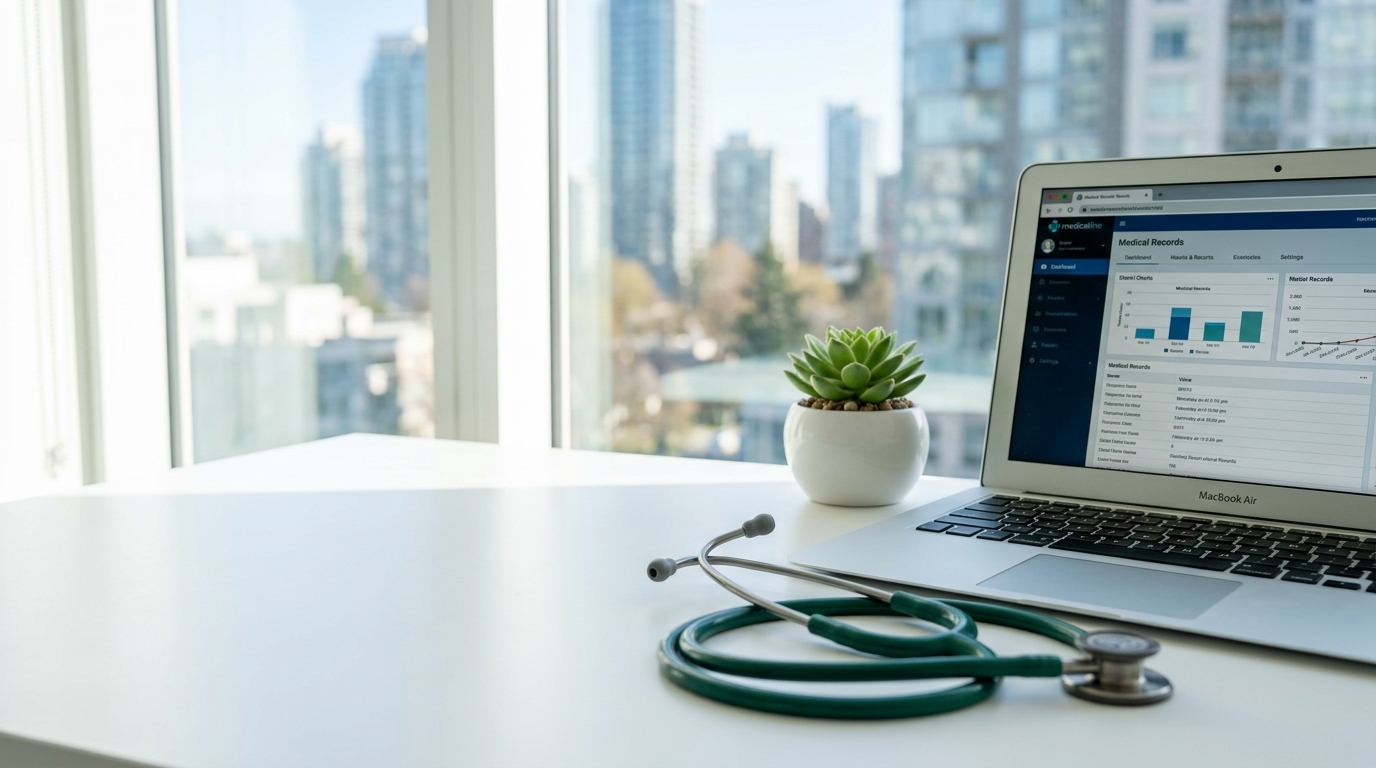
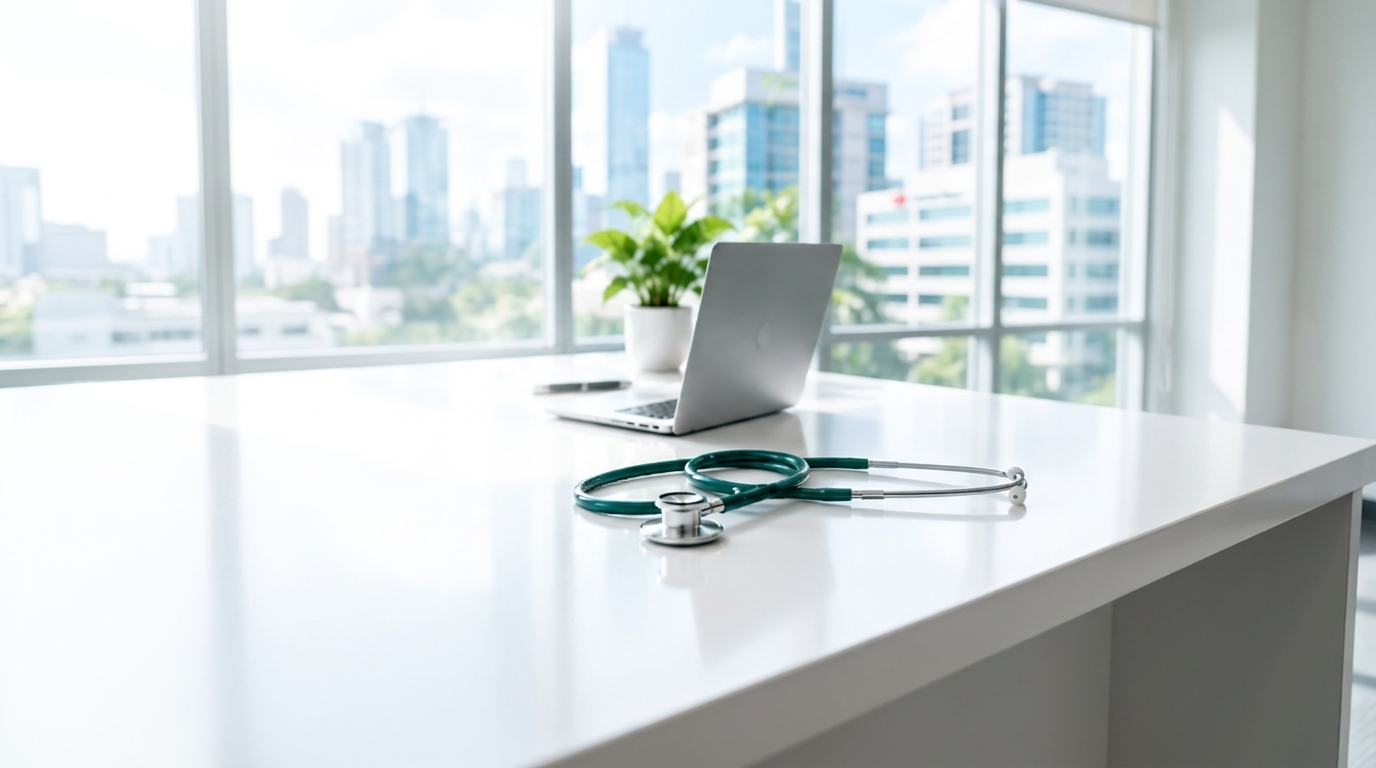
feat: add login page and authentication background assets

diff --git a/src/app/(auth)/login/page.tsx b/src/app/(auth)/login/page.tsx
@@ -40,7 +40,7 @@ export default function LoginPage() {
     setSuccess(null);
 
     if (!identifier.trim()) {
-      setError("Please enter your email address.");
+      setError("Please enter your Email Address.");
       return;
     }
     if (!password) {
@@ -93,31 +93,30 @@ export default function LoginPage() {
   };
 
   return (
-    <div className="min-h-screen w-full flex flex-col lg:flex-row bg-[#f3f6f4] font-sans-clean selection:bg-[#007a55] selection:text-white overflow-x-hidden">
+    <div className="h-screen w-full flex flex-col lg:flex-row bg-[#f6f9f8] font-sans-clean selection:bg-[#007a55] selection:text-white overflow-hidden">
       {/* ========================================================= */}
-      {/* LEFT COLUMN: HERO, HEADLINE, FEATURES & WAVE BANNER       */}
+      {/* LEFT COLUMN: HERO, VALUE PROPOSITIONS & ARTISTIC WAVE     */}
       {/* ========================================================= */}
-      <div className="relative w-full lg:w-[57%] xl:w-[58%] min-h-[640px] lg:h-screen lg:max-h-screen flex flex-col justify-between overflow-hidden bg-white select-none">
-        {/* Background Image: Crisp Clinical Consultation Desk */}
+      <div className="relative w-full lg:w-[58%] xl:w-[59%] h-full flex flex-col justify-between overflow-hidden bg-white select-none">
+        {/* Background Image: Clean Hospital Consultation Desk */}
         <div className="absolute inset-0 z-0 pointer-events-none">
           <Image
-            src="/images/auth-hero-bg.jpg"
+            src="/images/auth-hero-clinic-v2.jpg"
             alt="LifeSpring Hospital Consultation Desk"
             fill
             priority
-            quality={95}
-            className="object-cover object-right-bottom scale-100"
+            quality={98}
+            className="object-cover object-[75%_center]"
           />
-          {/* Subtle soft white gradient wash for editorial contrast */}
-          <div className="absolute inset-0 bg-gradient-to-r from-white/95 via-white/80 to-white/20 lg:to-transparent" />
-          <div className="absolute inset-0 bg-gradient-to-t from-white/40 via-transparent to-white/20" />
+          {/* Soft white gradient wash for editorial text readability */}
+          <div className="absolute inset-0 bg-gradient-to-r from-white/95 via-white/70 to-transparent" />
+          <div className="absolute inset-0 bg-gradient-to-t from-white/30 via-transparent to-white/10" />
         </div>
 
-        {/* Content Container */}
-        <div className="relative z-10 flex flex-col justify-between h-full p-6 sm:p-10 lg:p-12 xl:p-14">
-          {/* Top: LifeSpring Brand Logo */}
+        {/* Top: LifeSpring Brand Logo */}
+        <div className="relative z-10 p-6 sm:p-8 lg:p-10 xl:p-12 pb-0">
           <div className="flex items-center gap-3">
-            <div className="relative w-11 h-11 shrink-0">
+            <div className="relative w-10 h-10 sm:w-11 sm:h-11 shrink-0">
               <Image
                 src="/images/lifespring-icon.png"
                 alt="LifeSpring Logo"
@@ -135,95 +134,96 @@ export default function LoginPage() {
               </span>
             </div>
           </div>
-
-          {/* Middle: Editorial Headline & 4 Feature Highlights */}
-          <div className="my-auto py-4 sm:py-6 max-w-xl xl:max-w-2xl">
-            <h1 className="font-serif-display text-3xl sm:text-4xl lg:text-[44px] xl:text-[48px] font-bold text-[#083b28] leading-[1.12] tracking-tight">
-              Better Healthcare<br />
-              Management<br />
-              for a Healthier Tomorrow
-            </h1>
-
-            <p className="text-slate-600 text-[13.5px] sm:text-[15px] leading-relaxed mt-3.5 sm:mt-4 max-w-lg font-normal">
-              Streamline your hospital operations, manage patients, and deliver quality care — all in one place.
-            </p>
-
-            {/* 4 Feature Highlights in a single horizontal row on desktop */}
-            <div className="grid grid-cols-2 sm:grid-cols-4 gap-3.5 sm:gap-4 mt-6 sm:mt-8 pt-1">
-              {/* Card 1: Patient Management */}
-              <div className="flex flex-col items-start">
-                <div className="w-10 h-10 sm:w-11 sm:h-11 rounded-2xl bg-[#e3f5ec] text-[#007a55] flex items-center justify-center shadow-xs">
-                  <Users className="w-5 h-5 stroke-[2.2]" />
-                </div>
-                <h2 className="font-bold text-[13px] sm:text-[13.5px] text-slate-800 mt-2.5 leading-tight">
-                  Patient Management
-                </h2>
-                <p className="text-slate-500 text-[11px] sm:text-[11.5px] leading-snug mt-0.5">
-                  Complete patient lifecycle
-                </p>
-              </div>
-
-              {/* Card 2: Appointments */}
-              <div className="flex flex-col items-start">
-                <div className="w-10 h-10 sm:w-11 sm:h-11 rounded-2xl bg-[#e3f5ec] text-[#007a55] flex items-center justify-center shadow-xs">
-                  <Calendar className="w-5 h-5 stroke-[2.2]" />
-                </div>
-                <h2 className="font-bold text-[13px] sm:text-[13.5px] text-slate-800 mt-2.5 leading-tight">
-                  Appointments
-                </h2>
-                <p className="text-slate-500 text-[11px] sm:text-[11.5px] leading-snug mt-0.5">
-                  Easy scheduling & tracking
-                </p>
-              </div>
-
-              {/* Card 3: Clinical Records */}
-              <div className="flex flex-col items-start">
-                <div className="w-10 h-10 sm:w-11 sm:h-11 rounded-2xl bg-[#e3f5ec] text-[#007a55] flex items-center justify-center shadow-xs">
-                  <FileText className="w-5 h-5 stroke-[2.2]" />
-                </div>
-                <h2 className="font-bold text-[13px] sm:text-[13.5px] text-slate-800 mt-2.5 leading-tight">
-                  Clinical Records
-                </h2>
-                <p className="text-slate-500 text-[11px] sm:text-[11.5px] leading-snug mt-0.5">
-                  Secure & organized medical history
-                </p>
-              </div>
-
-              {/* Card 4: Reports & Analytics */}
-              <div className="flex flex-col items-start">
-                <div className="w-10 h-10 sm:w-11 sm:h-11 rounded-2xl bg-[#e3f5ec] text-[#007a55] flex items-center justify-center shadow-xs">
-                  <BarChart3 className="w-5 h-5 stroke-[2.2]" />
-                </div>
-                <h2 className="font-bold text-[13px] sm:text-[13.5px] text-slate-800 mt-2.5 leading-tight">
-                  Reports & Analytics
-                </h2>
-                <p className="text-slate-500 text-[11px] sm:text-[11.5px] leading-snug mt-0.5">
-                  Data-driven decisions
-                </p>
-              </div>
-            </div>
-          </div>
-
-          {/* Bottom buffer */}
-          <div className="h-16 sm:h-20" />
         </div>
 
+        {/* Middle: Editorial Headline & 4 Feature Badges */}
+        <div className="relative z-10 px-6 sm:px-8 lg:px-10 xl:px-12 my-auto max-w-xl xl:max-w-2xl">
+          <h1 className="font-serif-display text-3xl sm:text-4xl lg:text-[42px] xl:text-[46px] font-bold text-[#0c3c2a] leading-[1.12] tracking-tight">
+            Better Healthcare<br />
+            Management<br />
+            for a Healthier Tomorrow
+          </h1>
+
+          <p className="text-slate-600 text-[13.5px] sm:text-[14.5px] leading-relaxed mt-3.5 max-w-lg font-normal">
+            Streamline your hospital operations, manage patients,<br className="hidden sm:block" />
+            and deliver quality care — all in one place.
+          </p>
+
+          {/* 4 Feature Highlights in a horizontal row */}
+          <div className="grid grid-cols-2 sm:grid-cols-4 gap-3 sm:gap-4 mt-6 pt-1 max-w-lg">
+            {/* Card 1: Patient Management */}
+            <div className="flex flex-col items-start">
+              <div className="w-10 h-10 rounded-xl bg-[#eef8f2] text-[#007a55] flex items-center justify-center">
+                <Users className="w-4.5 h-4.5 stroke-[2]" />
+              </div>
+              <h2 className="font-bold text-[13px] text-[#113a2b] mt-2.5 leading-tight">
+                Patient<br />Management
+              </h2>
+              <p className="text-slate-500 text-[11px] leading-tight mt-1">
+                Complete patient lifecycle
+              </p>
+            </div>
+
+            {/* Card 2: Appointments */}
+            <div className="flex flex-col items-start">
+              <div className="w-10 h-10 rounded-xl bg-[#eef8f2] text-[#007a55] flex items-center justify-center">
+                <Calendar className="w-4.5 h-4.5 stroke-[2]" />
+              </div>
+              <h2 className="font-bold text-[13px] text-[#113a2b] mt-2.5 leading-tight">
+                Appointments
+              </h2>
+              <p className="text-slate-500 text-[11px] leading-tight mt-1">
+                Easy scheduling &amp; tracking
+              </p>
+            </div>
+
+            {/* Card 3: Clinical Records */}
+            <div className="flex flex-col items-start">
+              <div className="w-10 h-10 rounded-xl bg-[#eef8f2] text-[#007a55] flex items-center justify-center">
+                <FileText className="w-4.5 h-4.5 stroke-[2]" />
+              </div>
+              <h2 className="font-bold text-[13px] text-[#113a2b] mt-2.5 leading-tight">
+                Clinical Records
+              </h2>
+              <p className="text-slate-500 text-[11px] leading-tight mt-1">
+                Secure &amp; organized medical history
+              </p>
+            </div>
+
+            {/* Card 4: Reports & Analytics */}
+            <div className="flex flex-col items-start">
+              <div className="w-10 h-10 rounded-xl bg-[#eef8f2] text-[#007a55] flex items-center justify-center">
+                <BarChart3 className="w-4.5 h-4.5 stroke-[2]" />
+              </div>
+              <h2 className="font-bold text-[13px] text-[#113a2b] mt-2.5 leading-tight">
+                Reports &amp; Analytics
+              </h2>
+              <p className="text-slate-500 text-[11px] leading-tight mt-1">
+                Data-driven decisions
+              </p>
+            </div>
+          </div>
+        </div>
+
+        {/* Bottom space buffer */}
+        <div className="h-28 pointer-events-none" />
+
         {/* ========================================================= */}
-        {/* BOTTOM LEFT WAVE GRAPHIC: EXACT ORGANIC CURVES & TEXT     */}
+        {/* BOTTOM LEFT WAVE GRAPHIC WITH SCRIPT TYPOGRAPHY           */}
         {/* ========================================================= */}
-        <div className="absolute bottom-0 left-0 w-[105%] sm:w-[90%] lg:w-[85%] xl:w-[78%] pointer-events-none select-none z-20">
+        <div className="absolute bottom-0 left-0 w-full pointer-events-none select-none z-20">
           <svg
-            viewBox="0 0 760 210"
+            viewBox="0 0 1000 240"
             fill="none"
             xmlns="http://www.w3.org/2000/svg"
-            className="w-full h-auto drop-shadow-sm"
+            className="w-full h-auto block"
             preserveAspectRatio="none"
           >
             <defs>
               <linearGradient id="waveMint" x1="0%" y1="0%" x2="100%" y2="0%">
                 <stop offset="0%" stopColor="#10b981" stopOpacity="0.85" />
                 <stop offset="45%" stopColor="#34d399" stopOpacity="0.75" />
-                <stop offset="100%" stopColor="#059669" stopOpacity="0.1" />
+                <stop offset="100%" stopColor="#059669" stopOpacity="0.15" />
               </linearGradient>
               <linearGradient id="waveDeepForest" x1="0%" y1="0%" x2="100%" y2="100%">
                 <stop offset="0%" stopColor="#05442e" />
@@ -232,21 +232,21 @@ export default function LoginPage() {
               </linearGradient>
             </defs>
 
-            {/* Mint Wave Layer */}
+            {/* Mint Wave Layer with dipping curve */}
             <path
-              d="M0 95 C 160 70 340 145 760 90 L 760 210 L 0 210 Z"
+              d="M 0 105 C 320 85 460 215 780 160 C 890 140 960 115 1000 95 L 1000 240 L 0 240 Z"
               fill="url(#waveMint)"
             />
 
             {/* Deep Green Wave Layer */}
             <path
-              d="M0 120 C 190 95 390 170 760 125 L 760 210 L 0 210 Z"
+              d="M 0 135 C 340 115 480 235 780 185 C 890 165 960 145 1000 125 L 1000 240 L 0 240 Z"
               fill="url(#waveDeepForest)"
             />
           </svg>
 
           {/* Script Text over the Wave: "Together for Better Health" */}
-          <div className="absolute bottom-4 sm:bottom-6 left-6 sm:left-10 -rotate-[8deg] flex flex-col items-start drop-shadow">
+          <div className="absolute bottom-4 sm:bottom-6 left-6 sm:left-10 -rotate-[9deg] flex flex-col items-start drop-shadow">
             <span className="font-handwriting text-white text-2xl sm:text-[27px] font-semibold leading-tight tracking-wide">
               Together for
             </span>
@@ -272,11 +272,11 @@ export default function LoginPage() {
       </div>
 
       {/* ========================================================= */}
-      {/* RIGHT COLUMN: AUTH CARD, SSO, SECURITY BADGE & FOOTER    */}
+      {/* RIGHT COLUMN: FLOATING AUTH CARD & SYSTEM METADATA        */}
       {/* ========================================================= */}
-      <div className="w-full lg:w-[43%] xl:w-[42%] min-h-screen bg-[#f3f6f4] flex flex-col justify-between items-center py-5 sm:py-6 px-4 sm:px-6 lg:px-8 relative z-20">
+      <div className="w-full lg:w-[42%] xl:w-[41%] h-full bg-[#f6f9f8] flex flex-col justify-between items-center py-5 sm:py-6 px-4 sm:px-6 relative z-20 overflow-y-auto">
         {/* Top Header: Language Switcher Dropdown */}
-        <div className="w-full flex justify-end max-w-[440px] relative">
+        <div className="w-full flex justify-end max-w-[430px] relative">
           <div className="relative">
             <button
               type="button"
@@ -313,8 +313,8 @@ export default function LoginPage() {
         </div>
 
         {/* Center: Main Elevated Sign-In Card */}
-        <div className="w-full max-w-[440px] my-auto py-3">
-          <div className="bg-white rounded-[26px] shadow-[0_15px_45px_rgba(0,0,0,0.05),0_1px_3px_rgba(0,0,0,0.02)] border border-slate-100/90 p-6 sm:p-8 transition-all">
+        <div className="w-full max-w-[430px] my-auto py-2">
+          <div className="bg-white rounded-[26px] shadow-[0_20px_50px_rgba(0,0,0,0.06),0_1px_3px_rgba(0,0,0,0.02)] p-7 sm:p-8 transition-all">
             {/* Center Logo in Card */}
             <div className="flex flex-col items-center text-center">
               <div className="relative w-11 h-11 mb-1.5">
@@ -339,10 +339,10 @@ export default function LoginPage() {
               <span className="text-[10.5px] font-bold uppercase tracking-[0.18em] text-[#059669]">
                 WELCOME BACK
               </span>
-              <h2 className="font-serif-display text-2xl sm:text-[26px] font-bold text-[#0c3123] mt-0.5 leading-tight">
+              <h2 className="font-serif-display text-2xl sm:text-[25px] font-bold text-[#0c3123] mt-0.5 leading-tight">
                 Sign in to your account
               </h2>
-              <p className="text-slate-500 text-[13px] mt-1">
+              <p className="text-slate-500 text-[12.5px] sm:text-[13px] mt-1">
                 Access your dashboard and manage your operations.
               </p>
             </div>
@@ -519,51 +519,16 @@ export default function LoginPage() {
             </button>
 
             {/* Bottom Security Box inside the card */}
-            <div className="mt-4 p-2.5 px-3.5 rounded-xl bg-[#ebf8f2] border border-[#d2efe0] flex items-center gap-3">
+            <div className="mt-4 p-2.5 px-3.5 rounded-xl bg-[#ebf8f2] flex items-center gap-3">
               <ShieldCheck className="w-5 h-5 text-[#007a55] shrink-0" />
               <div className="flex flex-col">
                 <span className="text-[12px] font-bold text-[#065f46] leading-snug">
-                  Secure & Encrypted
+                  Secure &amp; Encrypted
                 </span>
                 <span className="text-[11px] text-[#047857] leading-snug">
                   Your data is safe with us
                 </span>
               </div>
-            </div>
-
-            {/* Discreet Quick Demo Role Switcher */}
-            <div className="mt-3.5 pt-2.5 border-t border-slate-100 flex items-center justify-center gap-1.5 text-[11px] text-slate-500">
-              <span className="font-medium">Quick Demo:</span>
-              <button
-                type="button"
-                onClick={() => {
-                  setIdentifier("admin@lifespring.com");
-                  setPassword("admin123");
-                }}
-                className="px-2 py-0.5 rounded-md bg-slate-100 hover:bg-emerald-100 hover:text-[#007a55] font-semibold transition-colors cursor-pointer"
-              >
-                Admin
-              </button>
-              <button
-                type="button"
-                onClick={() => {
-                  setIdentifier("doctor@lifespringint.com");
-                  setPassword("123456");
-                }}
-                className="px-2 py-0.5 rounded-md bg-slate-100 hover:bg-emerald-100 hover:text-[#007a55] font-semibold transition-colors cursor-pointer"
-              >
-                Doctor
-              </button>
-              <button
-                type="button"
-                onClick={() => {
-                  setIdentifier("patient@lifespringint.com");
-                  setPassword("123456");
-                }}
-                className="px-2 py-0.5 rounded-md bg-slate-100 hover:bg-emerald-100 hover:text-[#007a55] font-semibold transition-colors cursor-pointer"
-              >
-                Patient
-              </button>
             </div>
           </div>
         </div>
